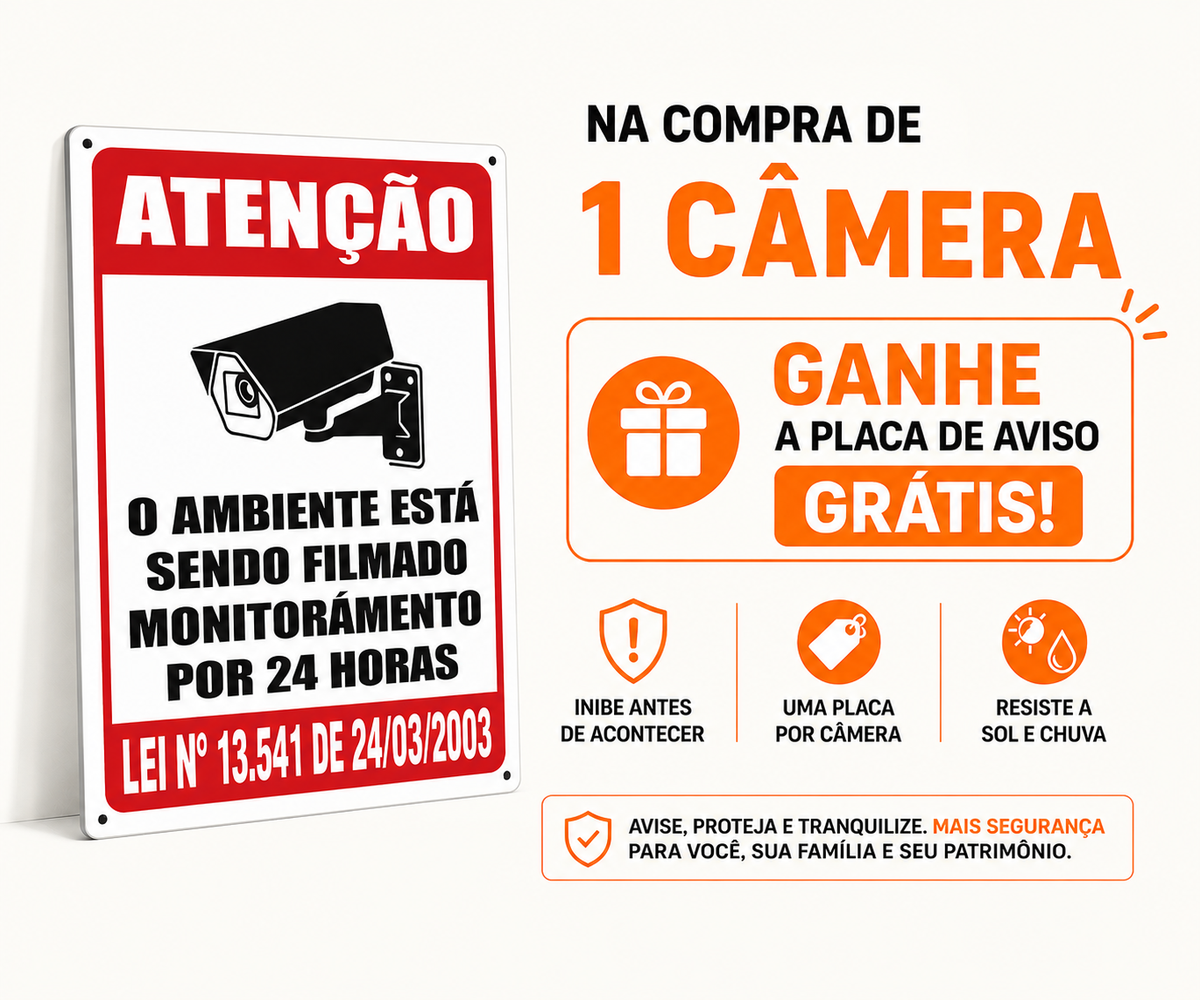
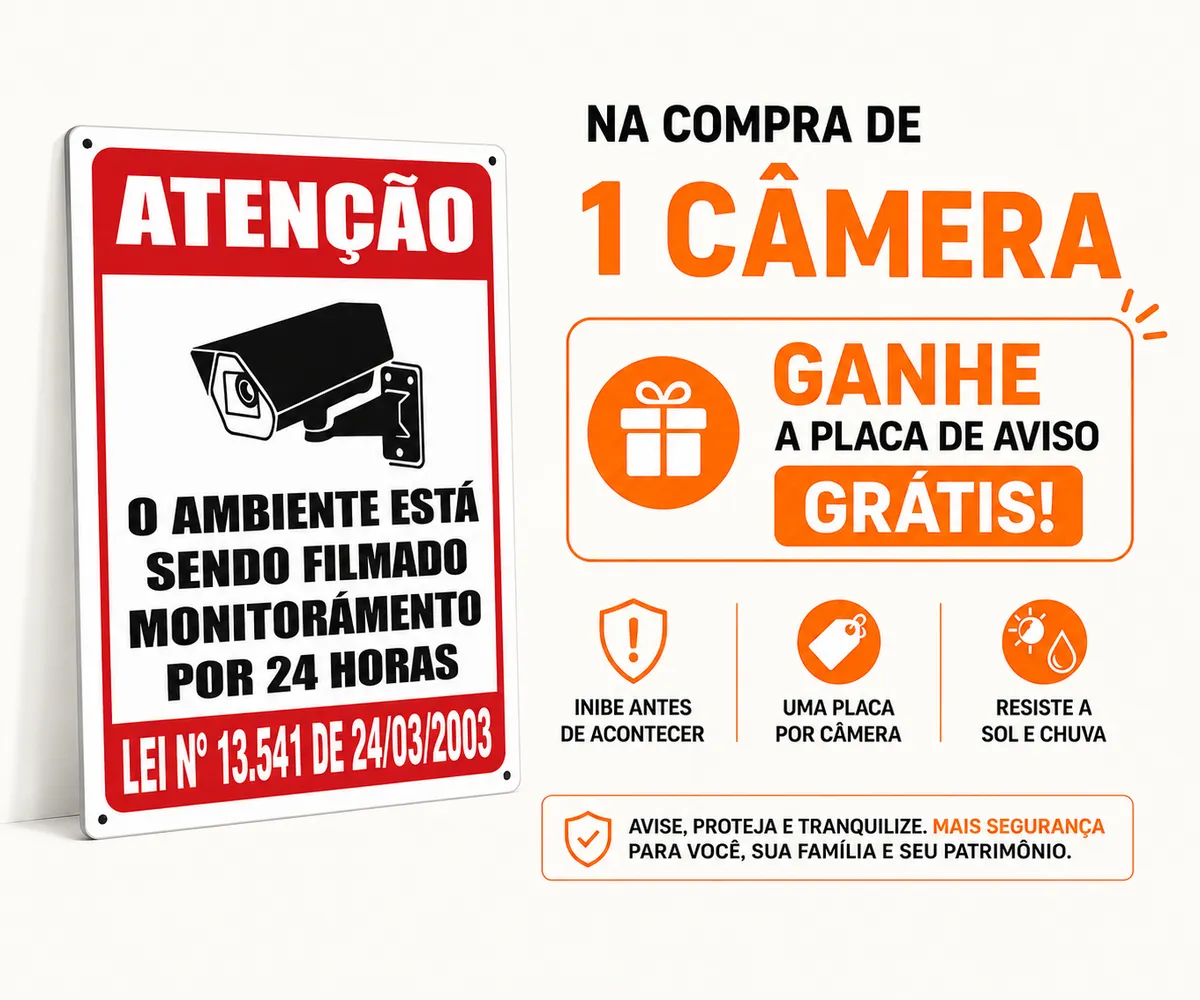
SEO: metadata raiz, robots, sitemap, canonical + hero convertido de PNG para WebP (1MB para 80KB)

diff --git a/app/sitemap.ts b/app/sitemap.ts
@@ -1,0 +1,55 @@
+import type { MetadataRoute } from "next"
+import { getProducts } from "@/lib/shopify/products"
+import { SITE_URL } from "@/lib/site"
+
+// Gera /sitemap.xml. Antes deste arquivo a rota devolvia a página 404 do Next
+// (~9 KB de HTML) com status 404 — o Google não tinha lista nenhuma de URLs.
+//
+// ⚠ REGIME: ISR, não estático. `getProducts()` faz `fetch` com
+// `{ revalidate: 300 }`, e é esse fetch que define a janela do sitemap também —
+// produto novo na coleção aparece aqui em até 5 min, igual ao /catalogo. Não há
+// `export const revalidate` nesta rota justamente porque a janela já vem de lá;
+// duplicá-la aqui criaria dois números para ajustar na próxima mudança.
+//
+// As URLs são ABSOLUTAS por especificação do protocolo de sitemap — `metadataBase`
+// não se aplica a esta rota, por isso `SITE_URL` aparece aqui explicitamente.
+export default async function sitemap(): Promise<MetadataRoute.Sitemap> {
+  // `new Date()` = momento do build/revalidação. É honesto para as rotas
+  // editoriais (mudam junto com um deploy) e é o melhor disponível para as de
+  // produto: a Storefront API expõe `updatedAt`, mas `PRODUCTS_QUERY` não o pede
+  // e ampliar a query só por causa do sitemap encareceria o /catalogo, que é
+  // quem paga por ela. `lastModified` é dica, não promessa — o Google recrawleia
+  // pelo que encontra na página.
+  const agora = new Date()
+
+  const estaticas: MetadataRoute.Sitemap = [
+    { url: SITE_URL,                             lastModified: agora, changeFrequency: "daily",   priority: 1 },
+    { url: `${SITE_URL}/catalogo`,               lastModified: agora, changeFrequency: "daily",   priority: 0.9 },
+    { url: `${SITE_URL}/sobre-nos`,              lastModified: agora, changeFrequency: "monthly", priority: 0.5 },
+    { url: `${SITE_URL}/suporte`,                lastModified: agora, changeFrequency: "monthly", priority: 0.5 },
+    // Páginas legais: prioridade baixa (ninguém as busca), mas presentes de
+    // propósito — a existência de políticas publicadas é sinal de confiança que
+    // o Google lê, e elas são recém-criadas (não estariam em índice nenhum).
+    { url: `${SITE_URL}/politica-de-privacidade`, lastModified: agora, changeFrequency: "yearly", priority: 0.3 },
+    { url: `${SITE_URL}/termos-de-uso`,           lastModified: agora, changeFrequency: "yearly", priority: 0.3 },
+    { url: `${SITE_URL}/trocas-e-devolucoes`,     lastModified: agora, changeFrequency: "yearly", priority: 0.3 },
+  ]
+
+  try {
+    const produtos = await getProducts()
+    return [
+      ...estaticas,
+      ...produtos.map((p) => ({
+        url:             `${SITE_URL}/produtos/${p.handle}`,
+        lastModified:    agora,
+        changeFrequency: "weekly" as const,
+        priority:        0.8,
+      })),
+    ]
+  } catch {
+    // Shopify fora / rede: mesma tolerância do resto do projeto (/catalogo, Home).
+    // Um sitemap só com as rotas editoriais é MUITO melhor que um 500 — o Google
+    // trata erro de sitemap como falha de confiança e reduz a frequência de crawl.
+    return estaticas
+  }
+}

diff --git a/app/layout.tsx b/app/layout.tsx
@@ -4,10 +4,64 @@ import { CarrinhoDrawer } from "@/components/loja/CarrinhoDrawer"
 import { getPaleta } from "@/lib/estilos"
 import type { Layout } from "@/lib/types"
 import homeData from "@/layouts/_home.json"
+import { SITE_URL } from "@/lib/site"
 import "./globals.css"
 
+// Metadata RAIZ — herdada por toda rota que não declarar a sua.
+//
+// Antes disto o site inteiro tinha `<title>Ta Hora</title>` em `/`, `/catalogo` e
+// `/sobre-nos` (três páginas, um título), zero meta description e zero Open Graph:
+// todo link colado no WhatsApp aparecia como texto cru. Para um negócio que vende
+// por indicação e tem programa de afiliados, o Open Graph abaixo é o item de maior
+// consequência deste arquivo.
 export const metadata: Metadata = {
-  title: "Ta Hora",
+  // Torna RELATIVAS todas as URLs de metadata (canonical, imagens de OG) —
+  // sem isto o Next emite `og:image` sem origem e nenhum crawler resolve.
+  // ⚠ O domínio vive em lib/site.ts. Trocar lá quando o tahora.com.br entrar.
+  metadataBase: new URL(SITE_URL),
+
+  title: {
+    // Usado por `/` e por qualquer rota sem título próprio.
+    default:  "Ta Hora — Câmeras de Segurança Wi-Fi Originais",
+    // 🔴 As rotas filhas passam SÓ o próprio nome: "Suporte", não
+    // "Suporte | Ta Hora". O sufixo é acrescentado aqui. Quem repetir o sufixo
+    // no `title` da página gera "Suporte | Ta Hora | Ta Hora" — e isso NÃO quebra
+    // o build, só sai errado na aba e no Google.
+    template: "%s | Ta Hora",
+  },
+  description:
+    "Câmeras de segurança Wi-Fi originais com nota fiscal. Entrega para todo o Brasil, até 12x sem juros e suporte por WhatsApp.",
+
+  // 🔴 O CANONICAL É O ITEM CRÍTICO DESTE ARQUIVO, e a razão é o /afiliados:
+  // cada link de afiliado carrega `?ref=` e, sem canonical, o Google vê uma URL
+  // NOVA por afiliado — a mesma PDP diluída em N duplicatas. O canonical relativo
+  // resolve contra o `metadataBase` SEM a query, colapsando todas de volta numa
+  // URL só. Cada rota declara o seu; esta é a da Home.
+  alternates: { canonical: "/" },
+
+  openGraph: {
+    type:     "website",
+    locale:   "pt_BR",
+    siteName: "Ta Hora",
+    url:      "/",
+    title:    "Ta Hora — Câmeras de Segurança Wi-Fi Originais",
+    description:
+      "Câmeras Wi-Fi originais, com nota fiscal, entrega para todo o Brasil e até 12x sem juros.",
+    images: [
+      {
+        // Mesma imagem do Hero da Home. As dimensões abaixo são as REAIS do
+        // arquivo (1200×1000) — declarar dimensão que não bate faz o WhatsApp
+        // recortar errado ou descartar a prévia.
+        url:    "/uploads/Promocao_placa.webp",
+        width:  1200,
+        height: 1000,
+        alt:    "Placa de aviso de monitoramento 24 horas, brinde na compra de câmeras Ta Hora",
+      },
+    ],
+  },
+
+  twitter: { card: "summary_large_image" },
+  robots:  { index: true, follow: true },
 }
 
 // Paleta do site, resolvida AQUI (Server Component) e passada ao drawer por prop.

diff --git a/app/produtos/[handle]/page.tsx b/app/produtos/[handle]/page.tsx
@@ -30,17 +30,38 @@ export async function generateStaticParams() {
 }
 
 // C1 — tolerante: erro → título genérico (não quebra o build).
+//
+// 🔴 O SUFIXO SAIU DAQUI. O `· Ta Hora` que este arquivo acrescentava à mão foi
+// substituído pelo `template: "%s | Ta Hora"` do app/layout.tsx — mantê-lo
+// produziria "Camera Q8 · Ta Hora | Ta Hora". O separador mudou de `·` para `|`
+// junto com o resto do site, que agora é uniforme.
+//
+// O `canonical` é o item de maior consequência desta rota: os links de afiliado
+// apontam para PDPs com `?ref=<código>`, e sem ele cada afiliado criava uma URL
+// distinta da MESMA página aos olhos do Google. Relativo, resolvido contra o
+// `metadataBase` — e sem a query, que é o ponto.
 export async function generateMetadata(
   { params }: { params: Promise<{ handle: string }> },
 ): Promise<Metadata> {
   const { handle } = await params
+  const canonical = `/produtos/${handle}`
   try {
     const produto = await getProductByHandle(handle)
-    if (produto) return { title: `${produto.title} · Ta Hora` }
+    if (produto) {
+      return {
+        title:       produto.title,
+        description: `${produto.title} — original, com nota fiscal e garantia. Entrega para todo o Brasil e até 12x sem juros no Ta Hora.`,
+        alternates:  { canonical },
+        // Herda `type`, `locale`, `siteName` e a imagem de OG do layout raiz;
+        // só título e descrição são específicos do produto. A imagem do produto
+        // exigiria a URL absoluta do CDN da Shopify e é trabalho de outra rodada.
+        openGraph: { title: produto.title, url: canonical },
+      }
+    }
   } catch {
     // ignora — cai no título genérico
   }
-  return { title: "Produto · Ta Hora" }
+  return { title: "Produto", alternates: { canonical } }
 }
 
 export default async function ProdutoPage(

diff --git a/app/catalogo/page.tsx b/app/catalogo/page.tsx
@@ -1,3 +1,4 @@
+import type { Metadata } from "next"
 import { getProducts } from "@/lib/shopify/products"
 import { CatalogoConsultivo } from "@/components/loja/CatalogoConsultivo"
 import { StoreShell } from "@/components/loja/StoreShell"
@@ -6,6 +7,16 @@ import { SectionLabel } from "@/components/ui/SectionLabel"
 
 // ISR: revalida a cada 5 min (preço/estoque frescos sem novo deploy).
 export const revalidate = 300
+
+// Metadata ESTÁTICA (objeto, não generateMetadata): não toca no regime ISR acima.
+// `title` sem sufixo — o "| Ta Hora" vem do `template` do app/layout.tsx.
+// `canonical` colapsa os `?ref=` dos links de afiliado numa URL só.
+export const metadata: Metadata = {
+  title: "Catálogo de Câmeras de Segurança Wi-Fi",
+  description:
+    "Todas as câmeras de segurança Wi-Fi do Ta Hora: interna, externa, com holofote, 4K e a que rosqueia no bocal da lâmpada. Originais, com nota fiscal e até 12x.",
+  alternates: { canonical: "/catalogo" },
+}
 
 export default async function CatalogoPage() {
   let corpo: React.ReactNode

diff --git a/lib/site.ts b/lib/site.ts
@@ -1,0 +1,17 @@
+// Origem canônica do site — o ÚNICO lugar onde a URL de produção vive.
+//
+// ⚠ TROCAR AQUI QUANDO O DOMÍNIO PRÓPRIO ENTRAR.
+// Hoje o site responde em `ta-hora-loja.vercel.app`; o `tahora.com.br` ainda NÃO
+// está configurado. Quando estiver, esta constante muda para
+// `https://tahora.com.br` e mais nada precisa mudar — `metadataBase`
+// (app/layout.tsx), o `sitemap` do robots.txt (app/robots.ts) e todas as URLs do
+// sitemap (app/sitemap.ts) derivam daqui.
+//
+// Por que uma constante e não a string repetida nos três arquivos: os canonicals
+// e o sitemap PRECISAM concordar. Três cópias literais viram, na primeira
+// migração de domínio, um sitemap apontando para o domínio novo e canonicals
+// ainda no domínio velho — divergência que o build não acusa e que só aparece
+// semanas depois no Search Console.
+//
+// Sem barra no fim: quem concatena usa `${SITE_URL}/rota`.
+export const SITE_URL = "https://ta-hora-loja.vercel.app"

diff --git a/app/robots.ts b/app/robots.ts
@@ -1,0 +1,22 @@
+import type { MetadataRoute } from "next"
+import { SITE_URL } from "@/lib/site"
+
+// Gera /robots.txt em BUILD (rota estática — sem cookies()/headers()/fetch).
+// Antes deste arquivo, /robots.txt devolvia a página 404 do Next (~9 KB de HTML)
+// com status 404: os crawlers não tinham nenhum apontamento para o sitemap.
+//
+// O domínio sai de `SITE_URL` (lib/site.ts) de propósito: o `sitemap:` do
+// robots.txt é ABSOLUTO por especificação — não aceita caminho relativo — então
+// ele é um dos lugares que precisam acompanhar a troca de domínio.
+export default function robots(): MetadataRoute.Robots {
+  return {
+    rules: {
+      userAgent: "*",
+      allow: "/",
+      // /api/ são rotas de dados (carrinho, afiliados) e /carrinho não é página
+      // indexável — nenhuma das duas tem conteúdo que sirva a uma busca.
+      disallow: ["/api/", "/carrinho"],
+    },
+    sitemap: `${SITE_URL}/sitemap.xml`,
+  }
+}

diff --git a/app/sobre-nos/page.tsx b/app/sobre-nos/page.tsx
@@ -1,3 +1,4 @@
+import type { Metadata } from "next"
 import { PreviewContent } from "@/components/preview/PreviewContent"
 import { getPaleta } from "@/lib/estilos"
 import type { Layout } from "@/lib/types"
@@ -12,6 +13,15 @@ import layoutData from "@/layouts/sobre-nos.json"
 const layout = semNotasInternas(layoutData as unknown as Layout)
 const paleta = layout.globalSettings?.paleta ?? getPaleta(layout.globalSettings?.estilo)
 const fundo = paleta?.fundo ?? "#0D0A08"
+
+// Metadata ESTÁTICA (objeto, não generateMetadata): mantém a rota ○ (Static).
+// `title` sem sufixo — o "| Ta Hora" vem do `template` do app/layout.tsx.
+export const metadata: Metadata = {
+  title: "Sobre Nós",
+  description:
+    "Quem é o Ta Hora: 4 anos vendendo eletrônicos originais em marketplaces, agora com loja própria. Produtos lacrados, nota fiscal e suporte por WhatsApp.",
+  alternates: { canonical: "/sobre-nos" },
+}
 
 export default function Page() {
   return (

diff --git a/app/suporte/page.tsx b/app/suporte/page.tsx
@@ -19,11 +19,12 @@ const paleta = layout.globalSettings?.paleta ?? getPaleta(layout.globalSettings?
 const fundo = paleta?.fundo ?? "#0D0A08"
 
 // Metadata ESTÁTICA (objeto, não generateMetadata): não torna a rota dinâmica.
-// Sem isto a página herdaria o `title: "Ta Hora"` genérico do app/layout.tsx.
+// `title` sem sufixo — o "| Ta Hora" vem do `template` do app/layout.tsx.
 export const metadata: Metadata = {
-  title: "Suporte | Ta Hora",
+  title: "Suporte",
   description:
     "Fale com o Ta Hora pelo WhatsApp, e-mail ou Instagram. Tire suas dúvidas sobre entrega, garantia, pagamento e acompanhamento do pedido.",
+  alternates: { canonical: "/suporte" },
 }
 
 export default function Page() {

diff --git a/app/trocas-e-devolucoes/page.tsx b/app/trocas-e-devolucoes/page.tsx
@@ -14,9 +14,11 @@ const paleta = layout.globalSettings?.paleta ?? getPaleta(layout.globalSettings?
 const fundo = paleta?.fundo ?? "#0D0A08"
 
 export const metadata: Metadata = {
-  title: "Trocas e Devoluções | Ta Hora",
+  // Sem sufixo — o "| Ta Hora" vem do `template` do app/layout.tsx.
+  title: "Trocas e Devoluções",
   description:
     "Prazos e condições para trocar ou devolver um produto comprado no Ta Hora, incluindo o direito de arrependimento de 7 dias previsto no CDC.",
+  alternates: { canonical: "/trocas-e-devolucoes" },
 }
 
 export default function Page() {

diff --git a/app/politica-de-privacidade/page.tsx b/app/politica-de-privacidade/page.tsx
@@ -18,9 +18,11 @@ const paleta = layout.globalSettings?.paleta ?? getPaleta(layout.globalSettings?
 const fundo = paleta?.fundo ?? "#0D0A08"
 
 export const metadata: Metadata = {
-  title: "Política de Privacidade | Ta Hora",
+  // Sem sufixo — o "| Ta Hora" vem do `template` do app/layout.tsx.
+  title: "Política de Privacidade",
   description:
     "Como o Ta Hora coleta, usa e protege os seus dados pessoais, incluindo cookies e a base legal de cada tratamento.",
+  alternates: { canonical: "/politica-de-privacidade" },
 }
 
 export default function Page() {

diff --git a/app/termos-de-uso/page.tsx b/app/termos-de-uso/page.tsx
@@ -14,9 +14,11 @@ const paleta = layout.globalSettings?.paleta ?? getPaleta(layout.globalSettings?
 const fundo = paleta?.fundo ?? "#0D0A08"
 
 export const metadata: Metadata = {
-  title: "Termos de Uso | Ta Hora",
+  // Sem sufixo — o "| Ta Hora" vem do `template` do app/layout.tsx.
+  title: "Termos de Uso",
   description:
     "Condições de uso do site do Ta Hora: compras, pagamentos, entrega, responsabilidades e direitos do consumidor.",
+  alternates: { canonical: "/termos-de-uso" },
 }
 
 export default function Page() {
